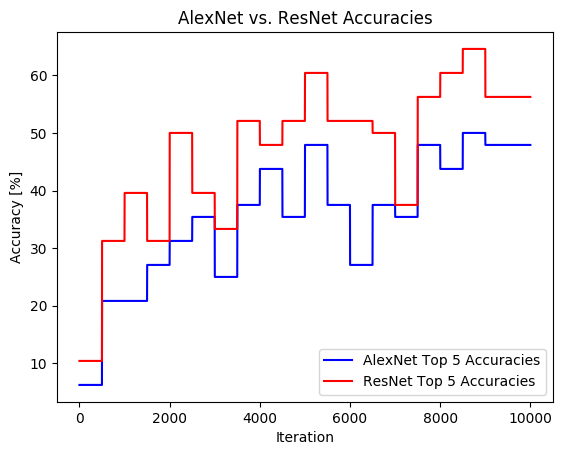
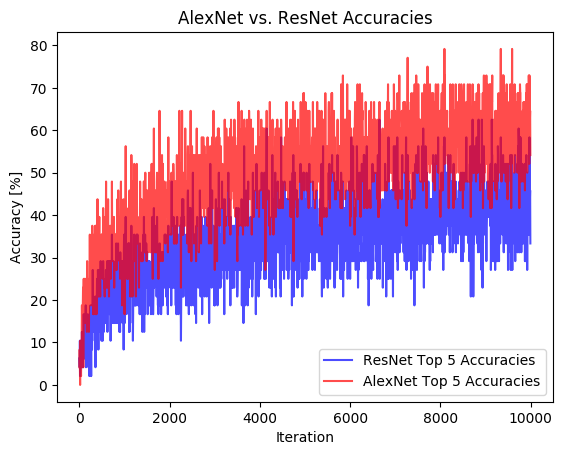
final pretty plots!

diff --git a/model/tensorflow/plotter.py b/model/tensorflow/plotter.py
@@ -1,6 +1,7 @@
 import numpy as np
 import matplotlib.pyplot as plt
 
+# Import Data
 resnetdirectory = './resnet/plots/'
 resnetlossfile = 'resnet_losses.npy'
 resnetaccuracyfile = 'resnet_accuracies.npy'
@@ -14,9 +15,15 @@ resnet_accuracies = 100*np.genfromtxt(resnetdirectory + resnetaccuracyfile)
 alexnet_losses = np.genfromtxt(alexnetdirectory + alexnetlossfile)
 alexnet_accuracies = 100*np.genfromtxt(alexnetdirectory + alexnetaccuracyfile)
 
+# Manipulate Data
+data_divide = 5
+n = '-'
+iterations = np.arange(0,10000,data_divide)
+
+# Plot
 plt.figure(1)
-plt.plot(resnet_losses, 'b-', label='AlexNet Losses')
-plt.plot(alexnet_losses, 'r-', label='ResNet Losses')
+plt.plot(iterations, resnet_losses[::data_divide], 'b'+n, alpha=0.7, label='ResNet Losses')
+plt.plot(iterations, alexnet_losses[::data_divide], 'r'+n, alpha=0.7, label='AlexNet Losses')
 plt.title('AlexNet vs. ResNet Losses')
 plt.axis([-10, 10000, 0, 6])
 plt.legend(loc='upper right')
@@ -26,8 +33,8 @@ plt.savefig('./plots/losscomparison.png', bbox_inches='tight')
 
 
 plt.figure(2)
-plt.plot(resnet_accuracies, 'b-', label='AlexNet Top 5 Accuracies')
-plt.plot(alexnet_accuracies, 'r-', label='ResNet Top 5 Accuracies')
+plt.plot(iterations, resnet_accuracies[::data_divide], 'b'+n, alpha=0.7, label='ResNet Top 5 Accuracies')
+plt.plot(iterations, alexnet_accuracies[::data_divide], 'r'+n, alpha=0.7, label='AlexNet Top 5 Accuracies')
 plt.title('AlexNet vs. ResNet Accuracies')
 plt.legend(loc='lower right')
 plt.ylabel('Accuracy [%]')
